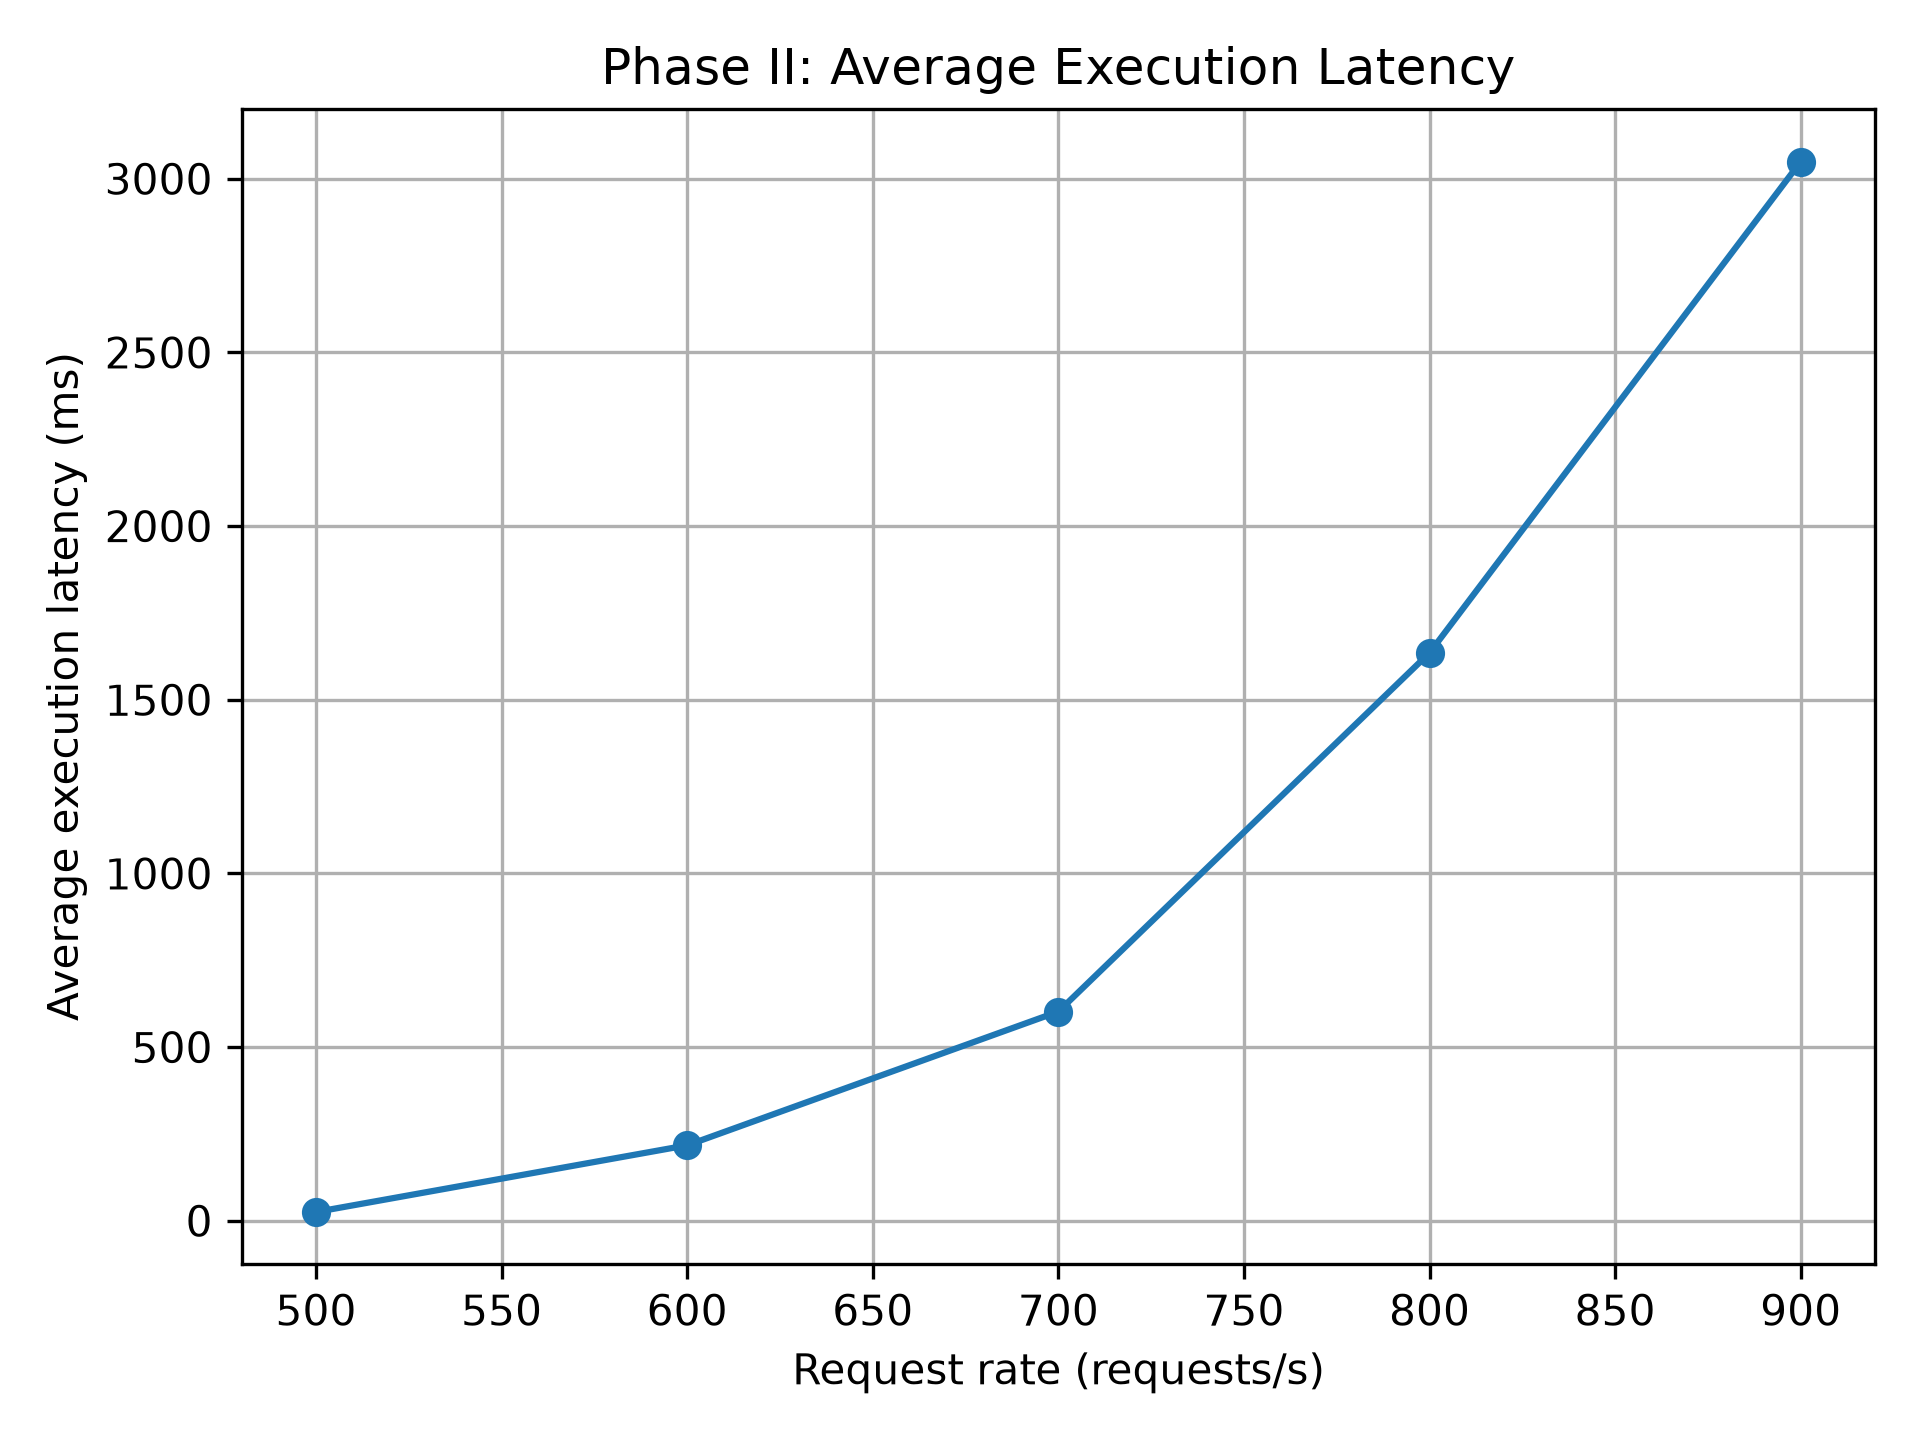
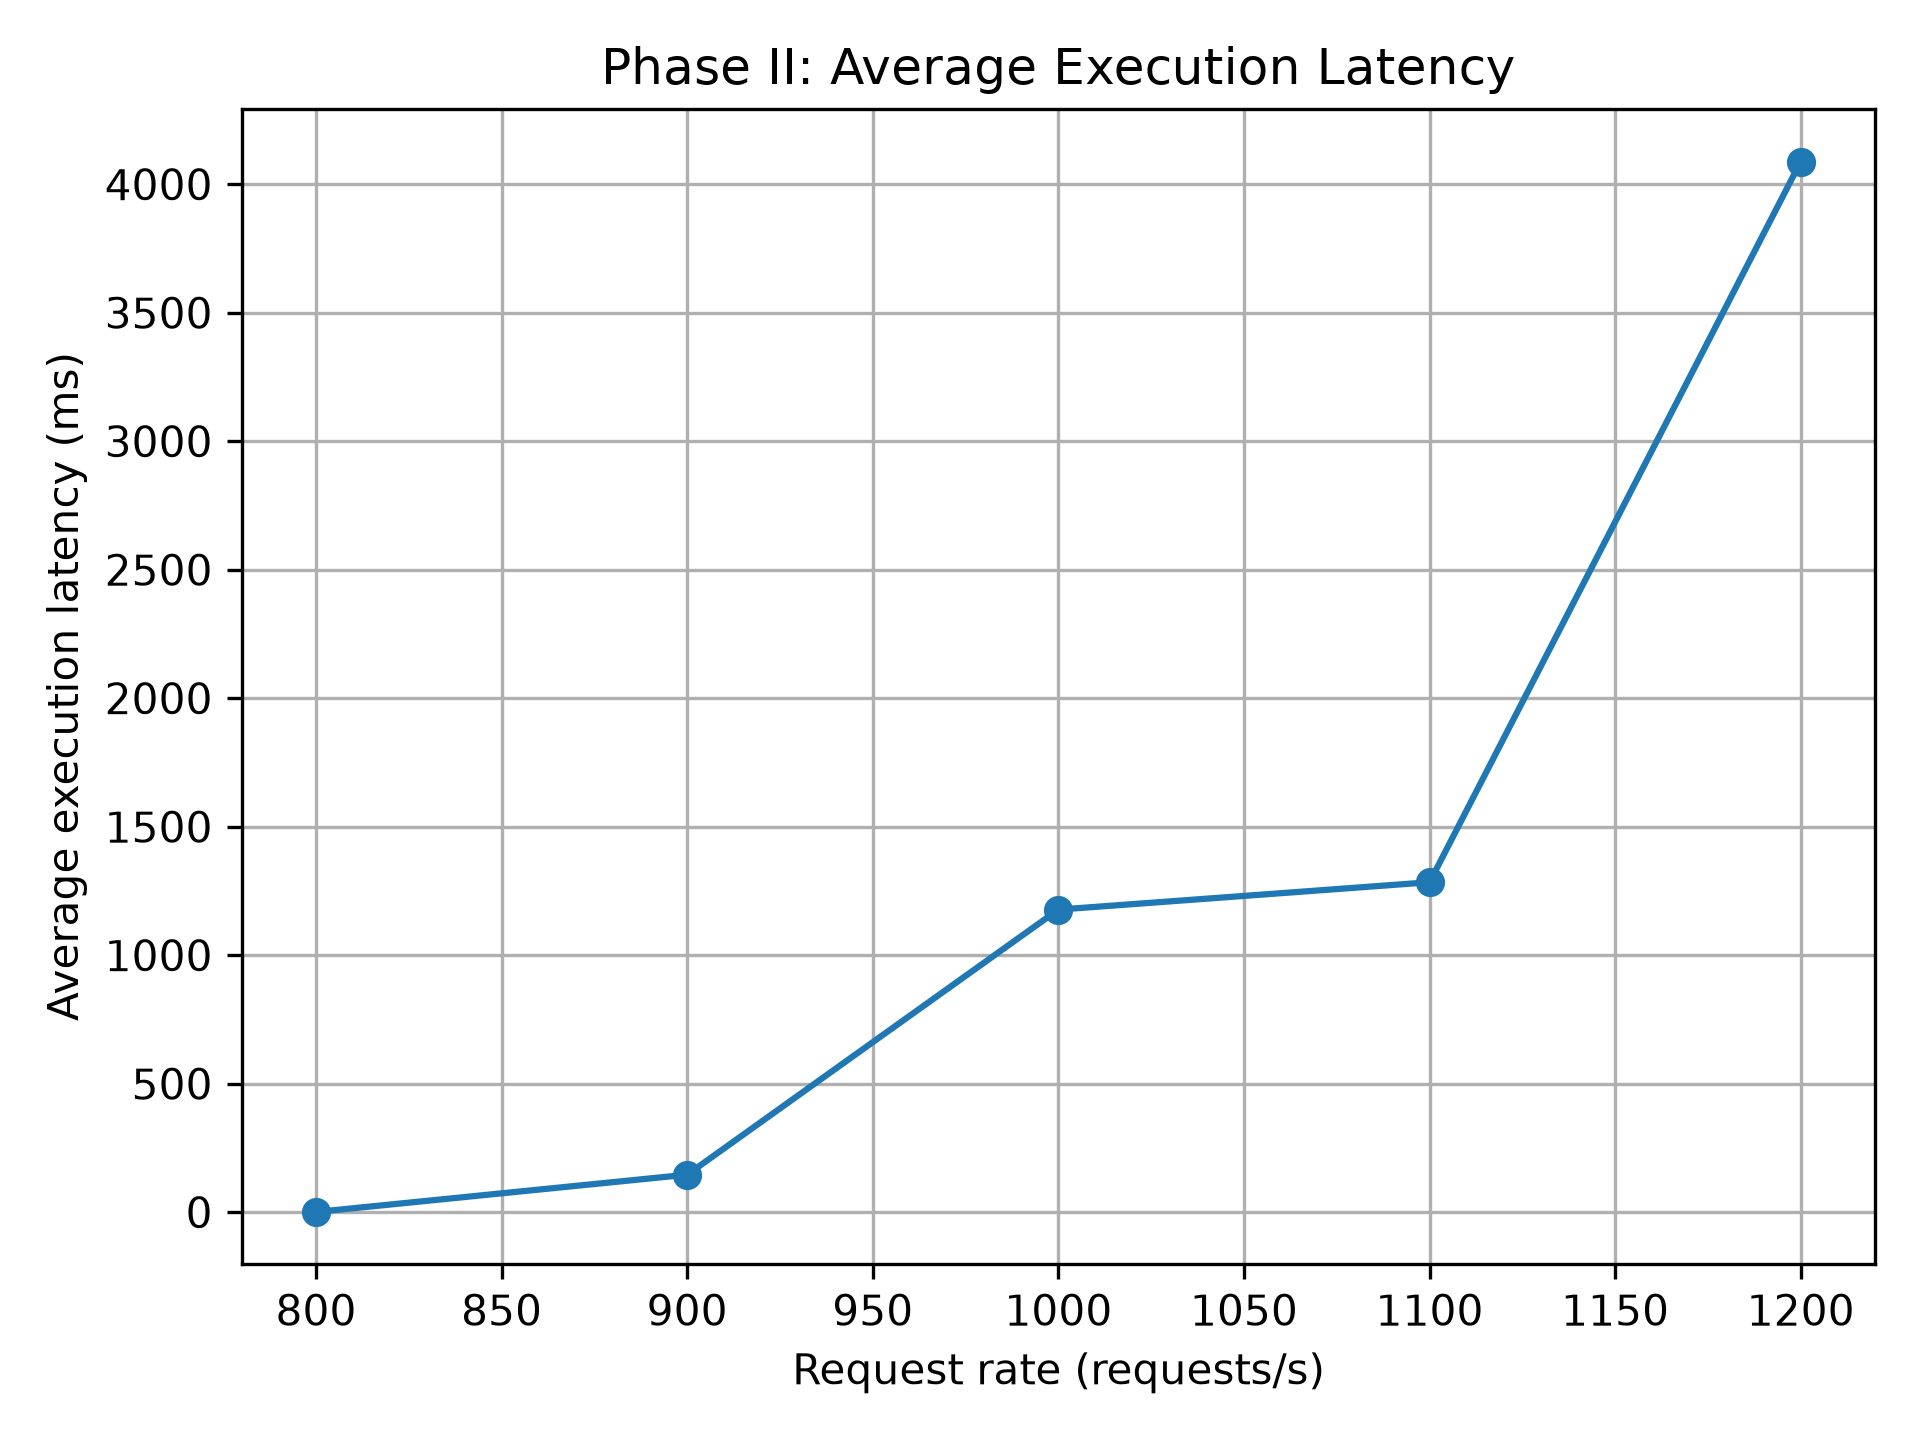
updates

diff --git a/wordCount/benchmark.py b/wordCount/benchmark.py
@@ -20,7 +20,7 @@ TEXT_REFERENCE = "sample2.txt"
 LOCAL_TEXT_PATH = "texts/sample2.txt"
 
 # Request rates (requests per second)
-REQUEST_RATES = [500, 600, 700, 800, 900, 1000]
+REQUEST_RATES = [800, 900, 1000, 1100, 1200]
 
 DURATION_SECONDS = 10
 
